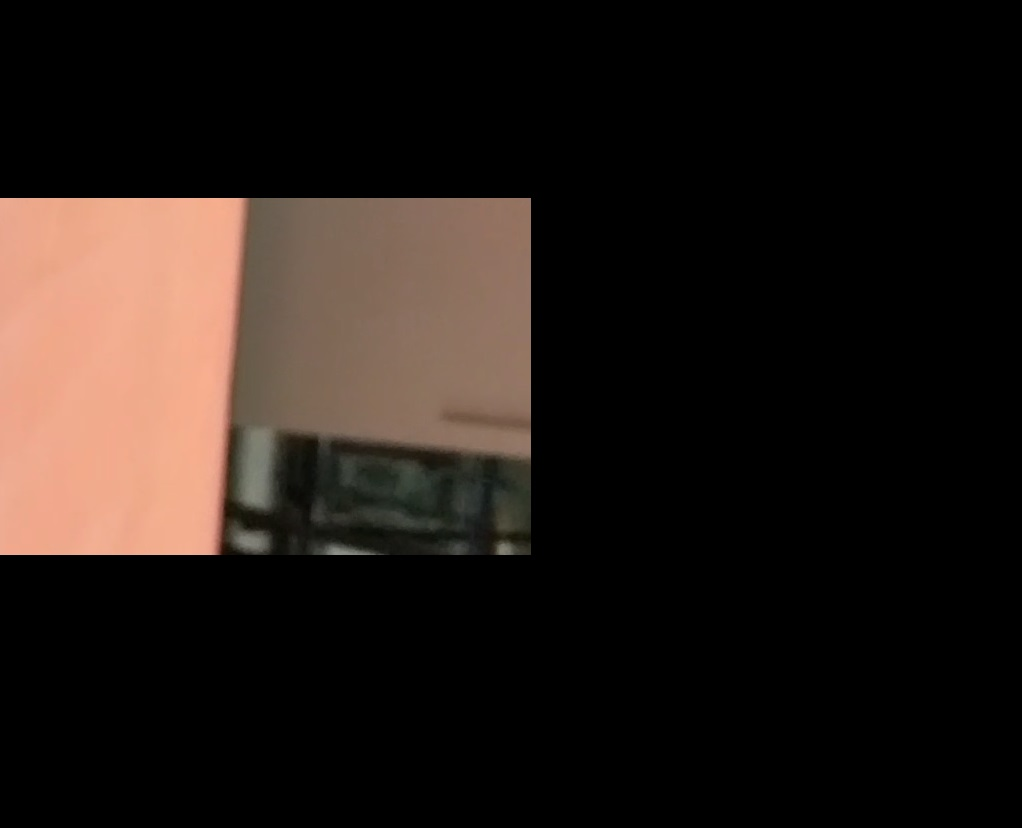
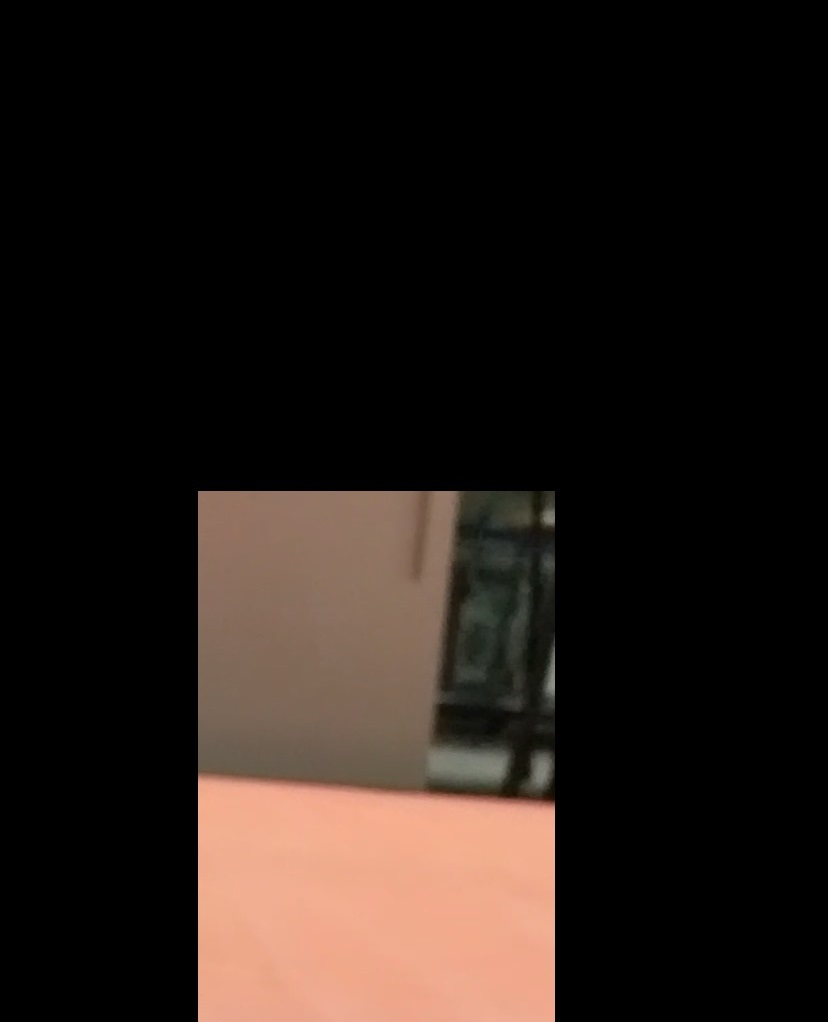
Reoriented logic to work in Y direction.

diff --git a/detection/detect.py b/detection/detect.py
@@ -15,7 +15,7 @@ def foreground_obstructed(img):
 
   #determine color threshold
   y, x, _ = img.shape
-  pixel = img[int(y//2), 0] #take pixel halfway down y axis at x=0
+  pixel = img[y-1, int(x//2)] #take pixel halfway accross x axis at bottom of image
   src = np.expand_dims(np.array([pixel]), axis=0)
   foreground_color = cv2.cvtColor(src, cv2.COLOR_BGR2HSV)
 
@@ -37,7 +37,7 @@ def detection(img):
     returns if an object was found and then returns the closest obj to the camera
   '''
   e1 = cv2.getTickCount()
-  img = cv2.resize(img, None, fx=.2, fy=.2, interpolation=cv2.INTER_AREA)
+  img = cv2.resize(img, None, fx=.1, fy=.1, interpolation=cv2.INTER_AREA)
   obj_in_fg = foreground_obstructed(img)
   
   objs = [] #cropped images of objs
@@ -58,7 +58,7 @@ def detection(img):
         #INSERT LOGIC TO REMOVE PRIMARY PARENT HERE
         objs.append(img[y:y+h, x:x+w])
         coords.append((len(coords),x,y,w,h))
-    coords = sorted(coords, key=lambda x: x[1]) #sort by x location (closest box to left is closest obj)
+    coords = sorted(coords, key=lambda x: x[2]+x[4], reverse=True) #sort by y location (closest box to bottom is closest obj)
   
   res = None
   if len(objs) > 1:
@@ -68,7 +68,7 @@ def detection(img):
   time = (e2 - e1)/ cv2.getTickFrequency()
   print("Time taken:", time)
   
-  if res is not None:
+  if obj_in_fg:
     cv2.imshow("Image", img)
     cv2.imshow("Edges", edges)
     cv2.waitKey(0)
@@ -89,7 +89,7 @@ def detection(img):
 #   else:
 #     print('No object found')
 
-img = cv2.imread('nacho.jpg', cv2.IMREAD_COLOR)
+img = cv2.imread('coke.jpg', cv2.IMREAD_COLOR)
 obj_found, obj = detection(img)
 if obj_found:
   cv2.imshow("Object", obj)
